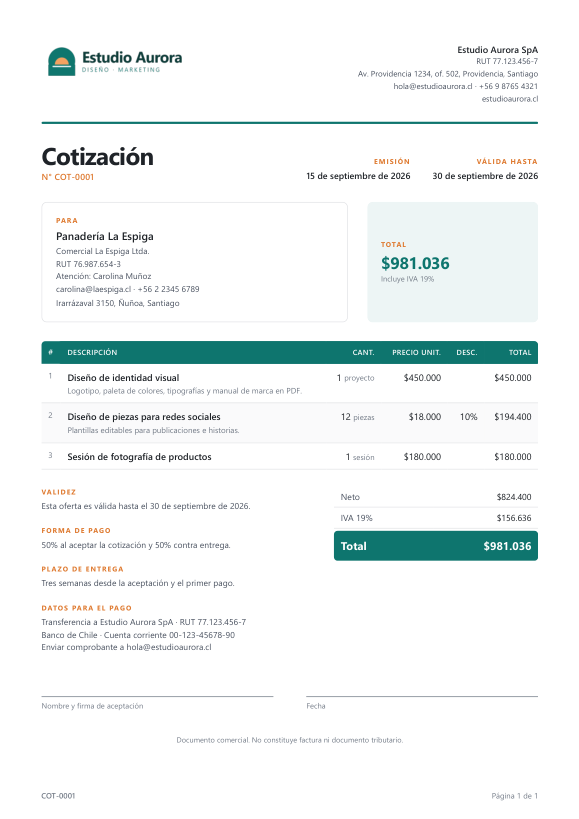
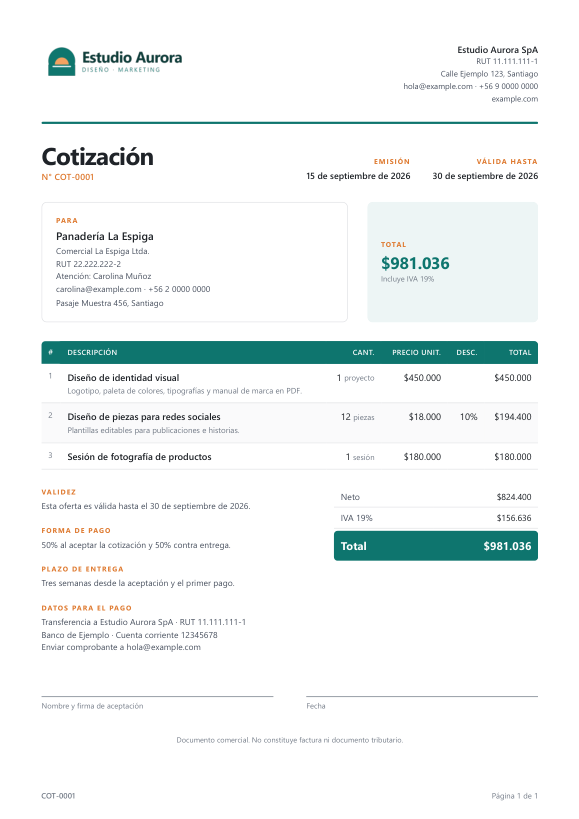
Usa datos de ejemplo ficticios antes de publicar
RUT, correos, teléfonos, direcciones y banco de los ejemplos pasan a
valores inventados (example.com, 11.111.111-1) para no atribuir datos
a personas o negocios reales. Se regeneran las imágenes de muestra.

Changed region(s): [[0.0933, 0.3053, 0.3731, 0.3968], [0.6839, 0.0611, 0.9326, 0.1221], [0.1554, 0.7326, 0.4041, 0.7937]]

diff --git a/.claude/skills/cotizar/references/formato.md b/.claude/skills/cotizar/references/formato.md
@@ -24,18 +24,18 @@ Ejemplos completos y válidos en `ejemplos/`: úsalos como punto de partida.
 {
   "nombre": "Estudio Aurora SpA",
   "pais": "Chile",
-  "id_tributario": { "etiqueta": "RUT", "valor": "77.123.456-7" },
-  "direccion": "Av. Providencia 1234, Santiago",
-  "email": "hola@estudioaurora.cl",
-  "telefono": "+56 9 8765 4321",
-  "web": "estudioaurora.cl",
+  "id_tributario": { "etiqueta": "RUT", "valor": "11.111.111-1" },
+  "direccion": "Calle Ejemplo 123, Santiago",
+  "email": "hola@example.com",
+  "telefono": "+56 9 0000 0000",
+  "web": "example.com",
   "logo": "logo.png",
   "color_principal": "#0f766e",
   "color_acento": "#e07a2f",
   "moneda": { "codigo": "CLP", "simbolo": "$", "decimales": 0, "miles": ".", "decimal": ",", "simbolo_despues": false },
   "impuesto": { "nombre": "IVA", "tasa": 19, "incluido_en_precios": false },
   "nombre_documento": "Cotización",
-  "datos_pago": "Banco de Chile · Cuenta corriente 00-123-45678-90",
+  "datos_pago": "Banco de Ejemplo · Cuenta corriente 12345678",
   "condiciones_por_defecto": { "pago": "50% al inicio y 50% contra entrega.", "entrega": "", "notas": "", "validez_dias": 15 }
 }
 ```
@@ -67,11 +67,11 @@ Un borrador por documento, con el nombre del cliente en minúsculas y sin símbo
   "cliente": {
     "nombre": "Panadería La Espiga",
     "empresa": "Comercial La Espiga Ltda.",
-    "id_tributario": "76.987.654-3",
+    "id_tributario": "22.222.222-2",
     "contacto": "Carolina Muñoz",
-    "email": "carolina@laespiga.cl",
-    "telefono": "+56 2 2345 6789",
-    "direccion": "Irarrázaval 3150, Ñuñoa"
+    "email": "carolina@example.com",
+    "telefono": "+56 2 0000 0000",
+    "direccion": "Pasaje Muestra 456, Santiago"
   },
   "items": [
     { "descripcion": "Diseño de logo", "detalle": "Tres propuestas y manual", "cantidad": 1, "unidad": "proyecto", "precio_unitario": 450000 },
